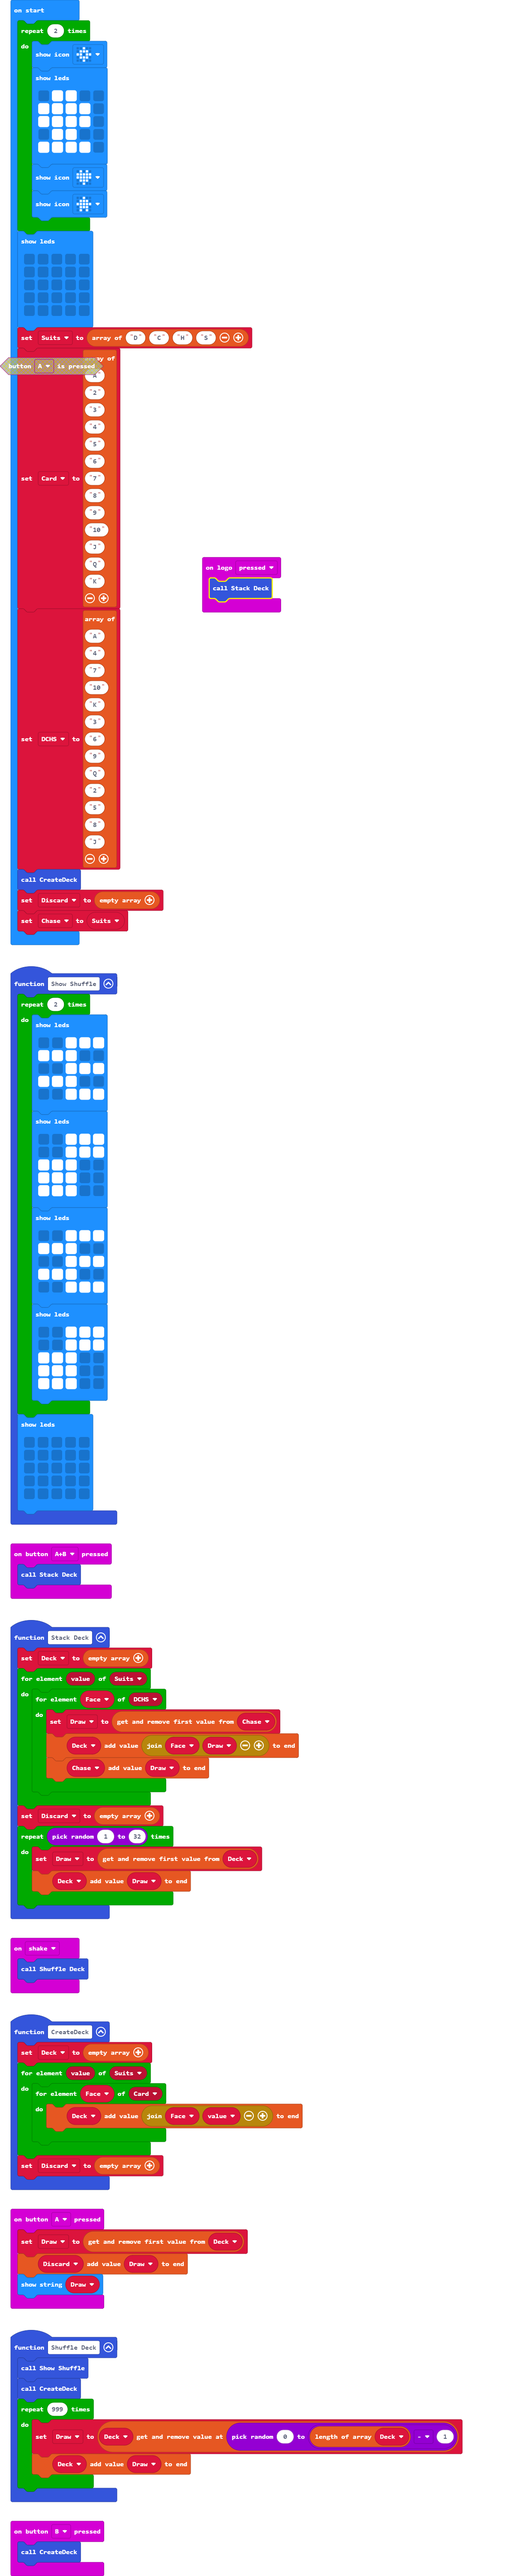
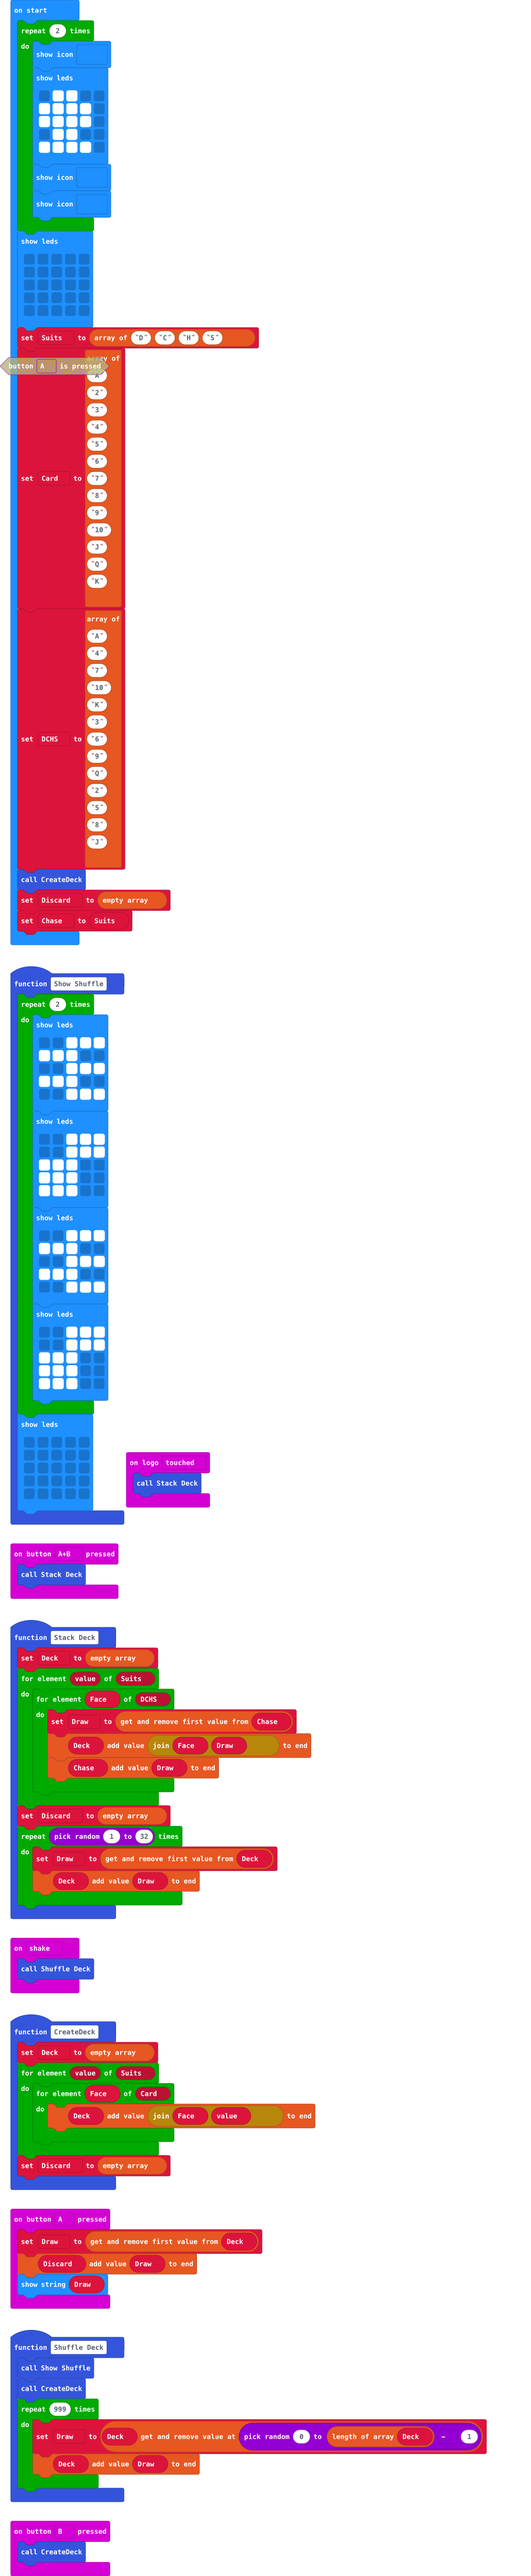
Update pxt.json, main.blocks, main.ts

diff --git a/main.ts b/main.ts
@@ -35,7 +35,7 @@ input.onButtonPressed(Button.B, function () {
 input.onGesture(Gesture.Shake, function () {
     Shuffle_Deck()
 })
-input.onLogoEvent(TouchButtonEvent.Pressed, function () {
+input.onLogoEvent(TouchButtonEvent.Touched, function () {
     Stack_Deck()
 })
 function Show_Shuffle () {
